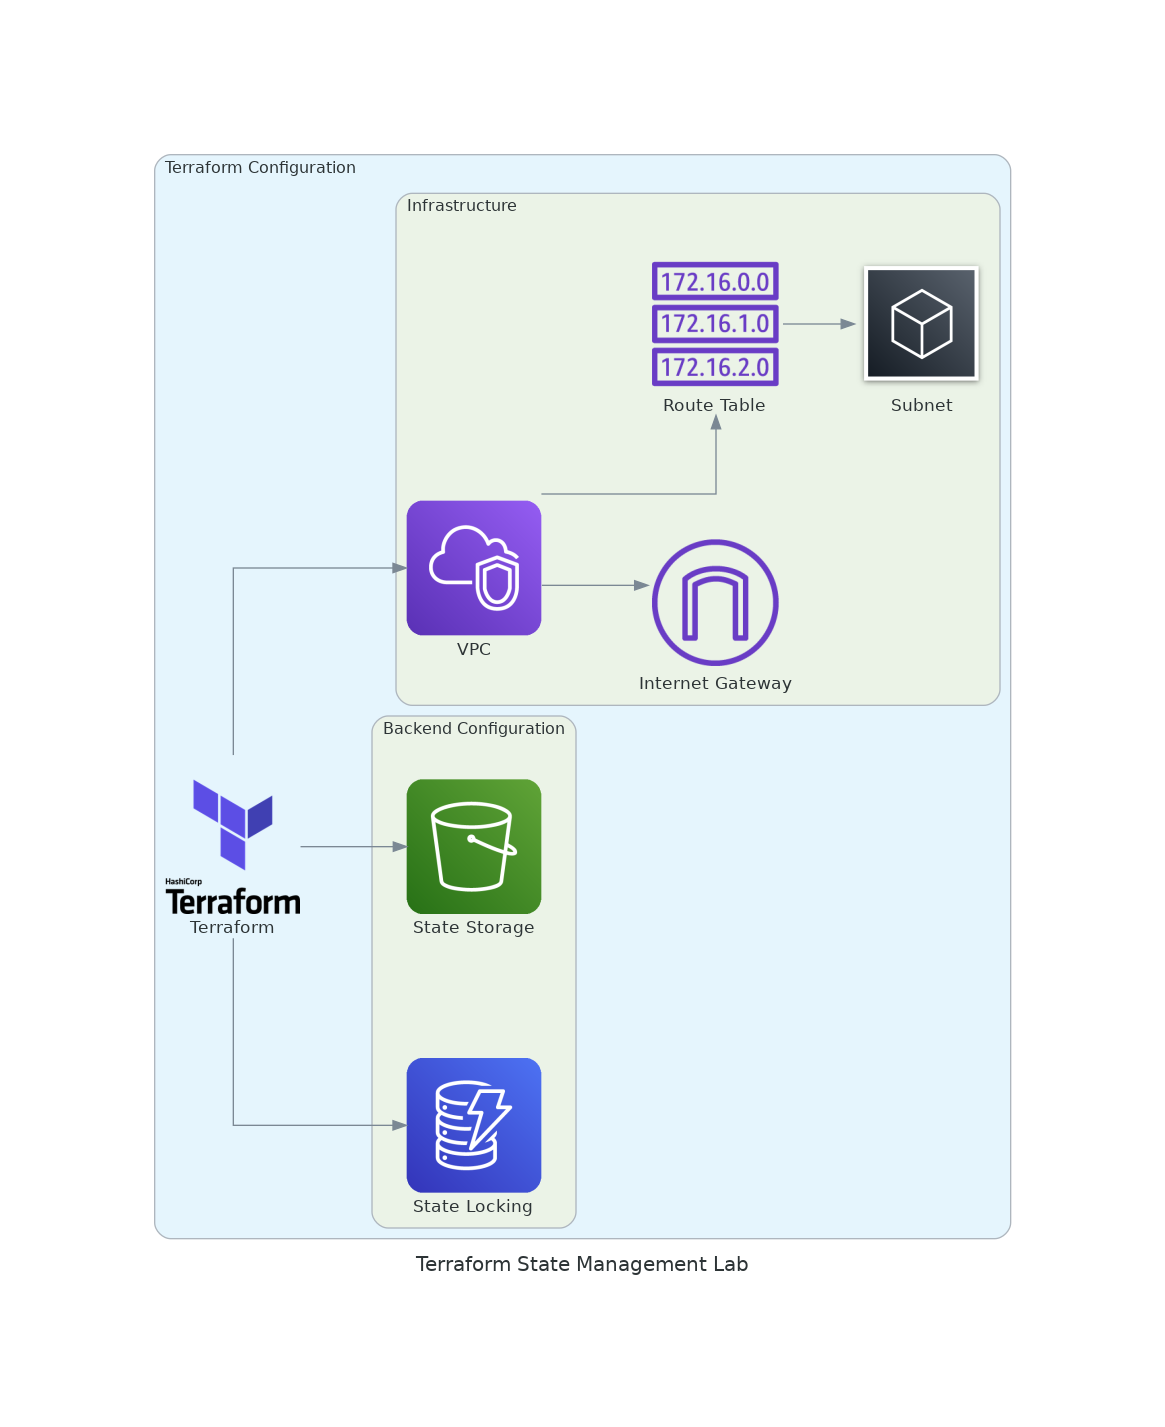
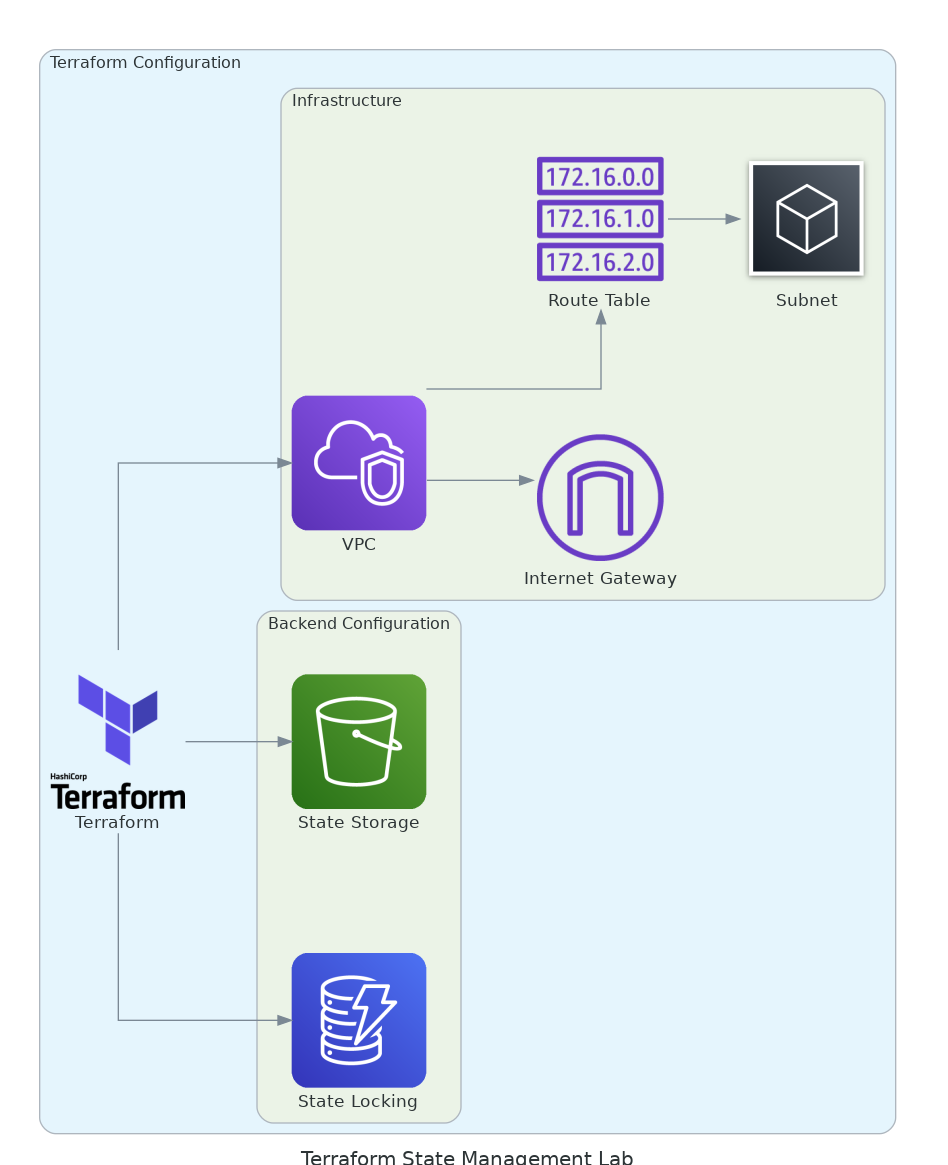
updated

diff --git a/06-terraform-state/06-labs.md b/06-terraform-state/06-labs.md
@@ -1,5 +1,5 @@
 # Terraform State Management - Labs
-
+![terraform_state_lab)](/06-terraform-state/06-Diagrams/06-labs-diagrams/terraform_state_lab.png)
 ## Lab 1: Basic State Management and Backend Configuration
 ### Duration: 45 minutes
 
